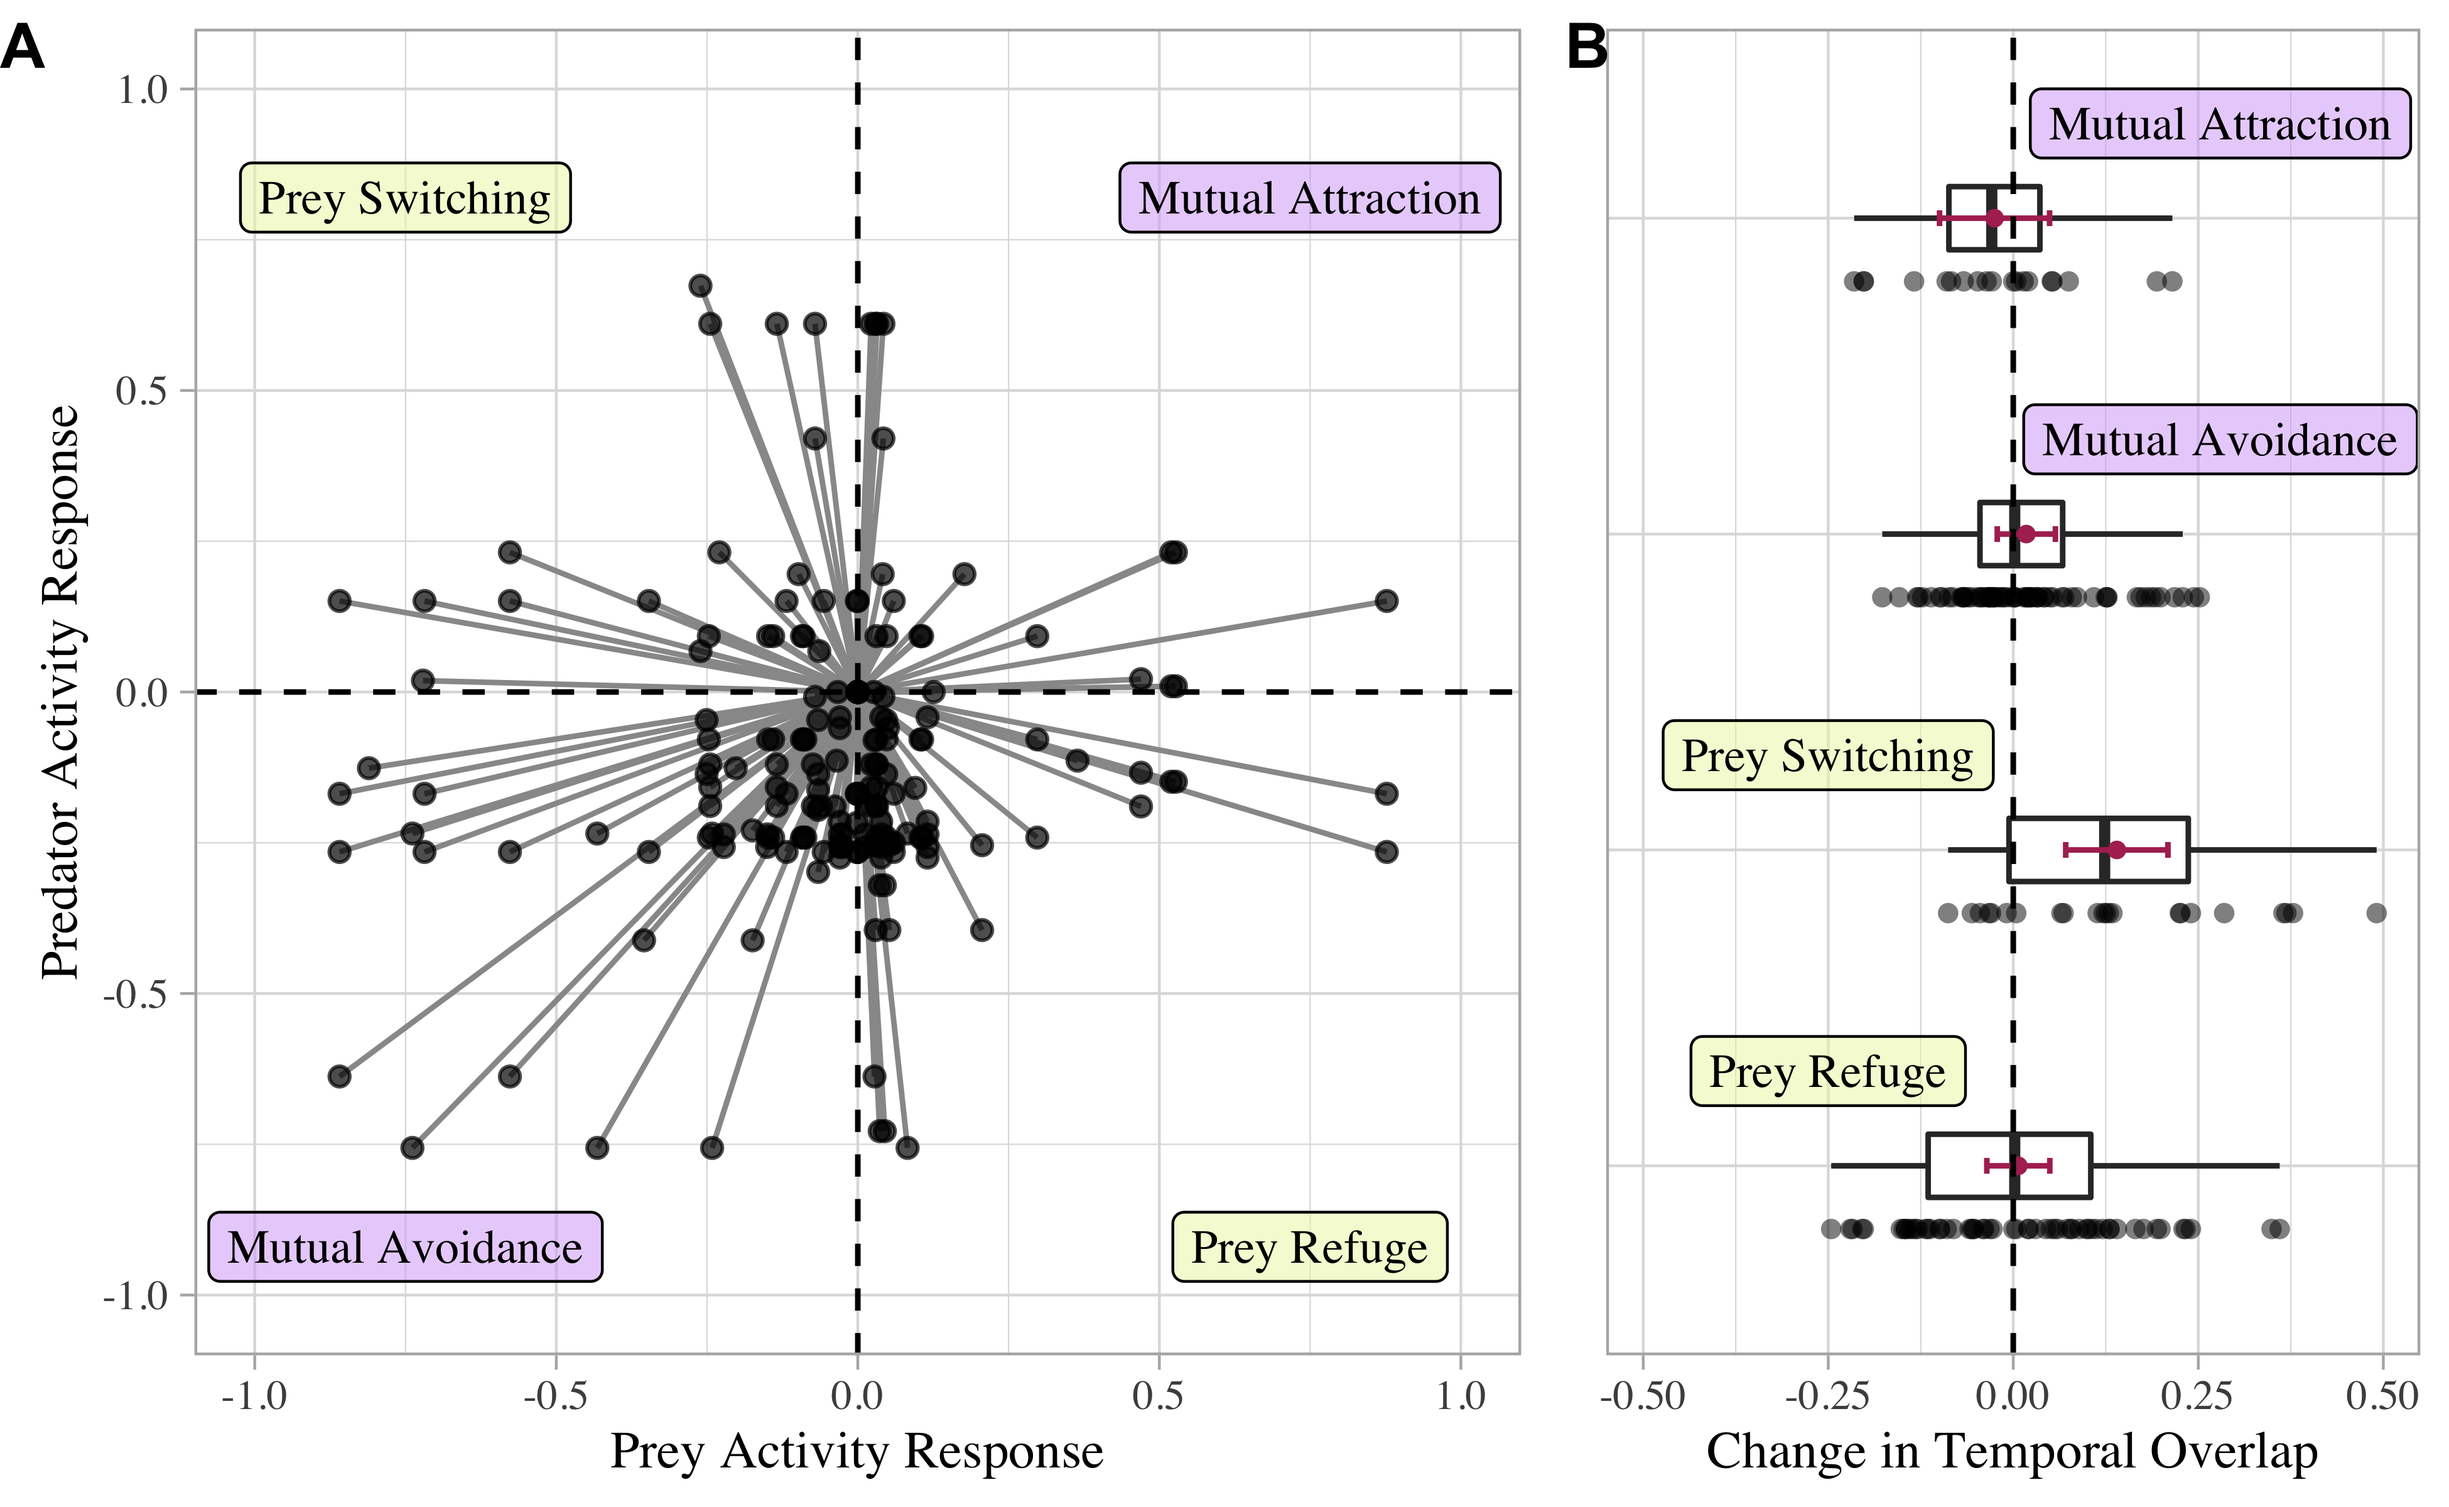
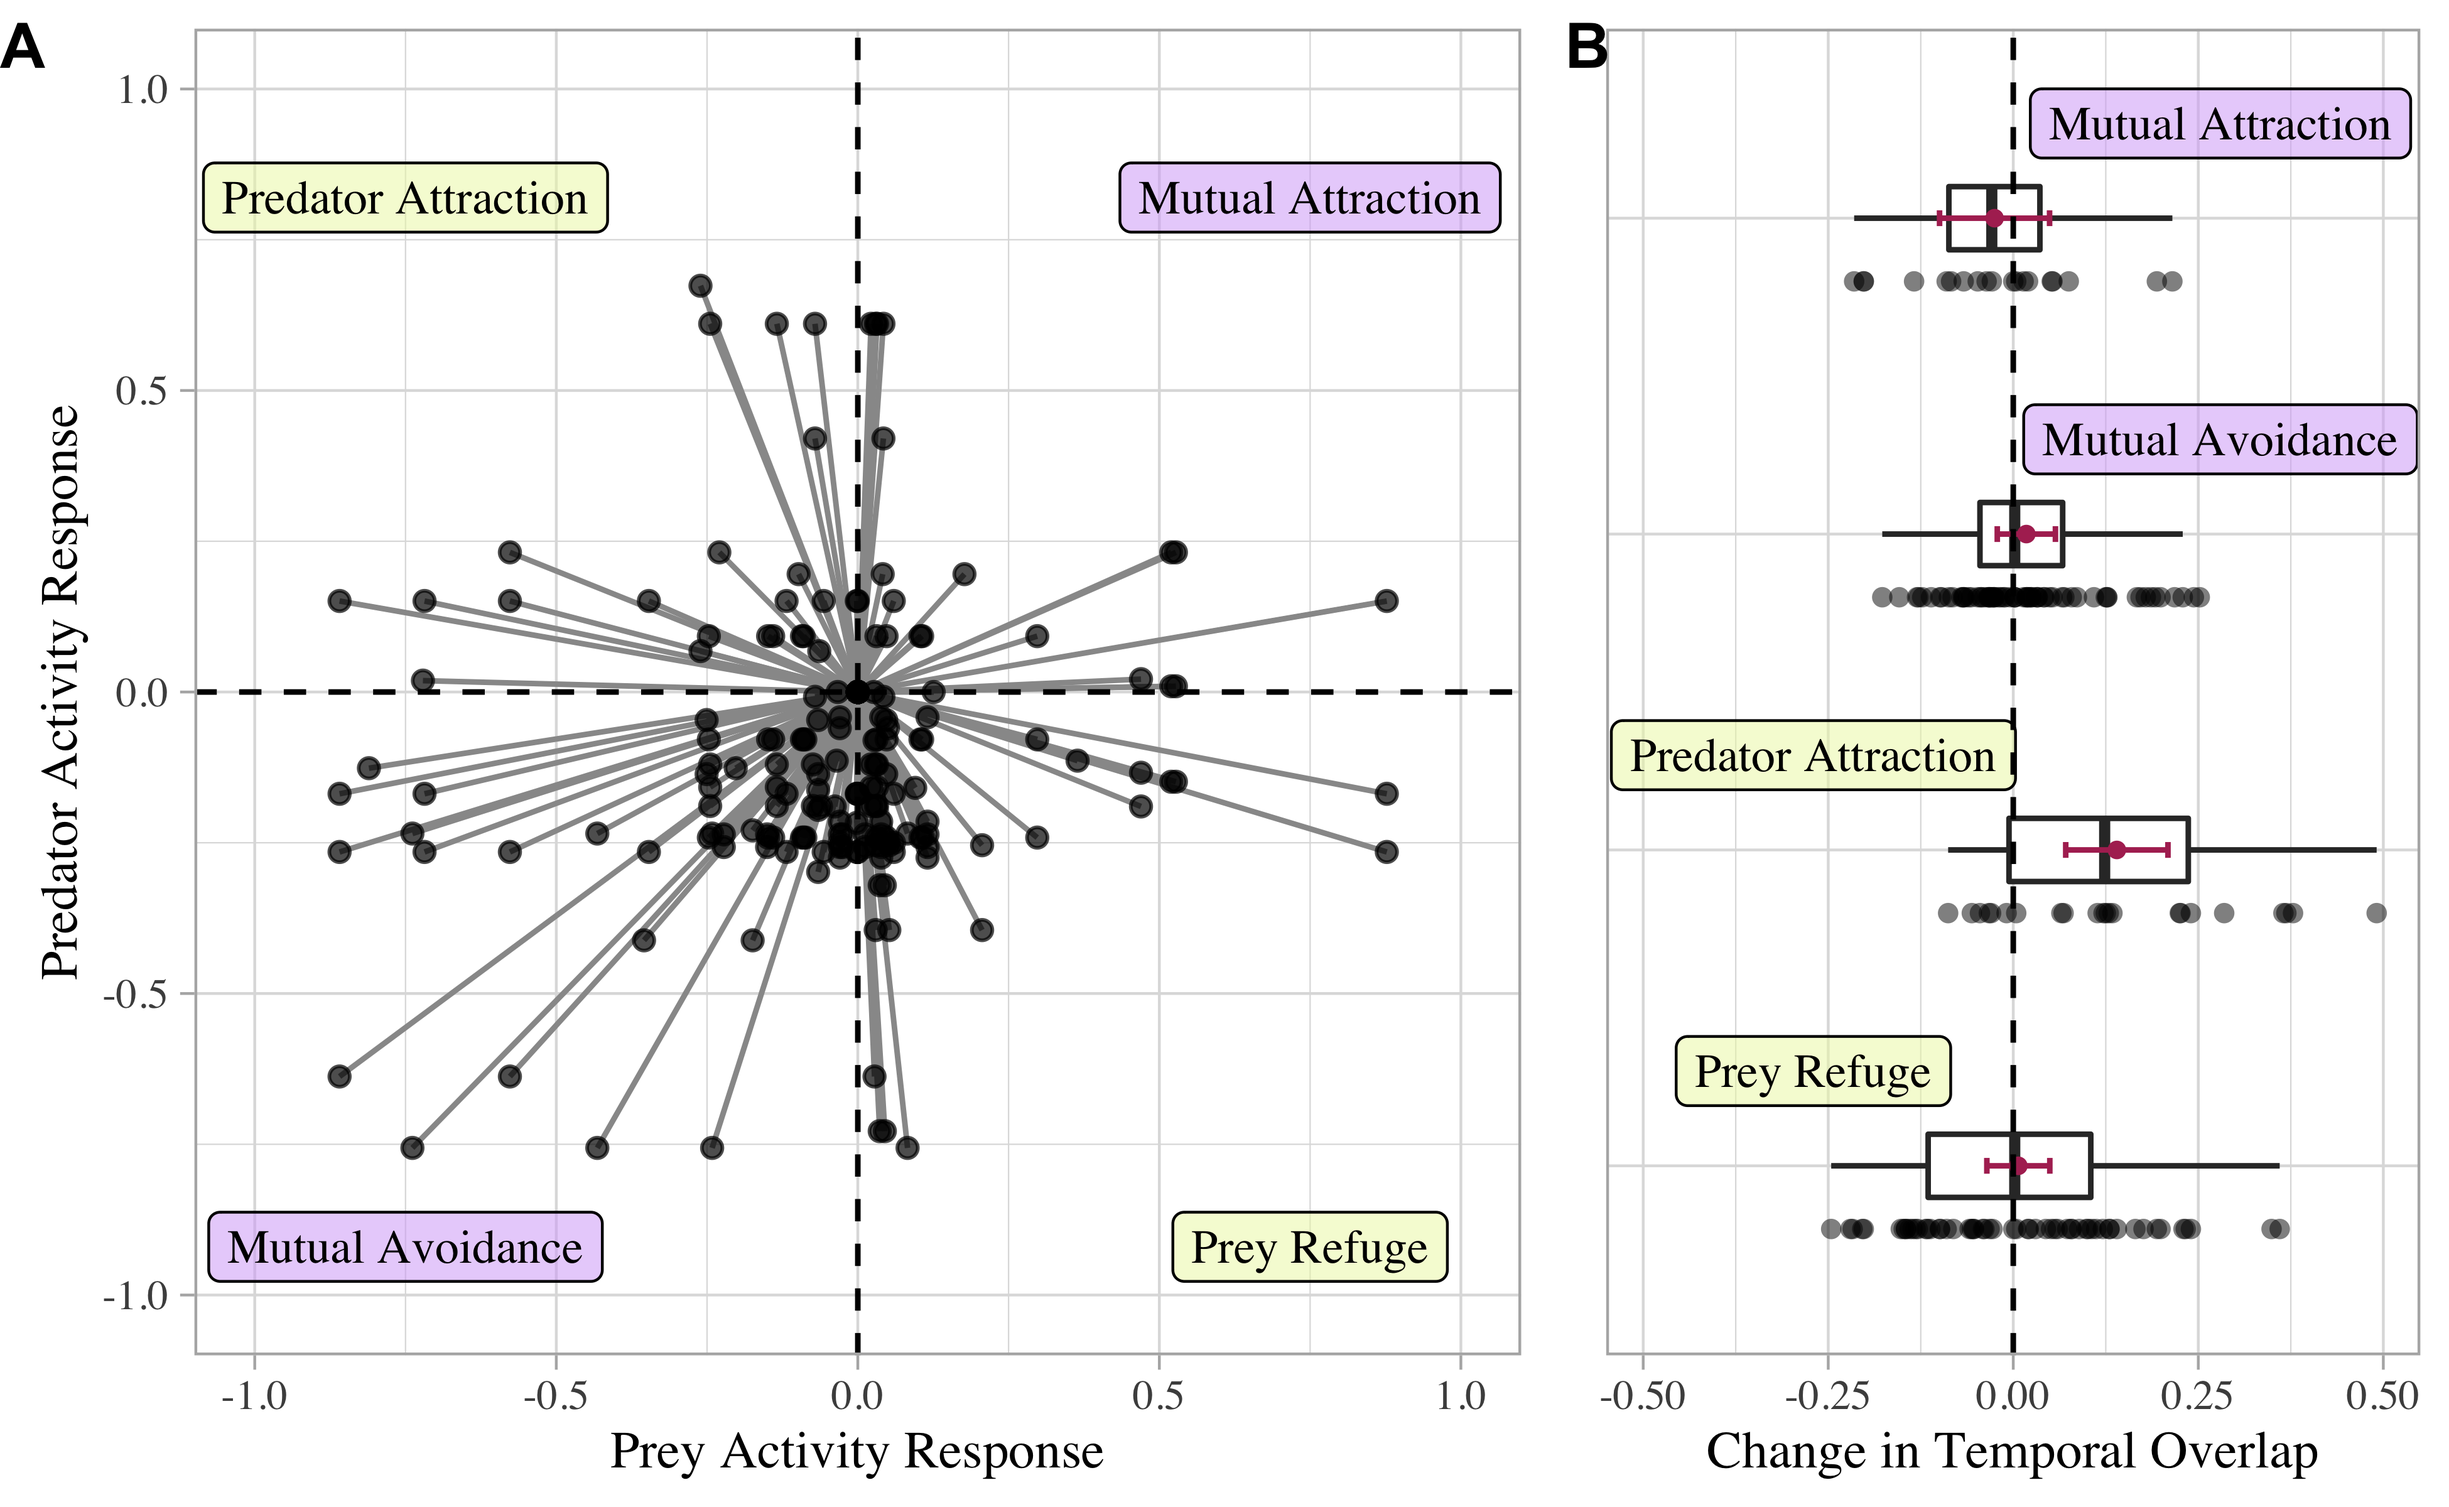
updated labels to be "Predator Attraction" instead of "Prey Switching"

Changed region(s): [[0.6515, 0.4688, 0.8377, 0.5312], [0.0621, 0.0938, 0.2482, 0.1562], [0.6826, 0.6875, 0.8067, 0.75]]

diff --git a/VanScoyoc_et_al_plotting_results.md b/VanScoyoc_et_al_plotting_results.md
@@ -1,6 +1,8 @@
 VanScoyoc et al. - Figure 2
 ================
 
+![](VanScoyoc_et_al_plotting_results_files/figure-gfm/unnamed-chunk-6-1.png)<!-- -->
+
 ![](VanScoyoc_et_al_plotting_results_files/figure-gfm/fig2-1.png)<!-- -->
 
 **Fig. 2.** *Human influence on predator-prey temporal activity and
